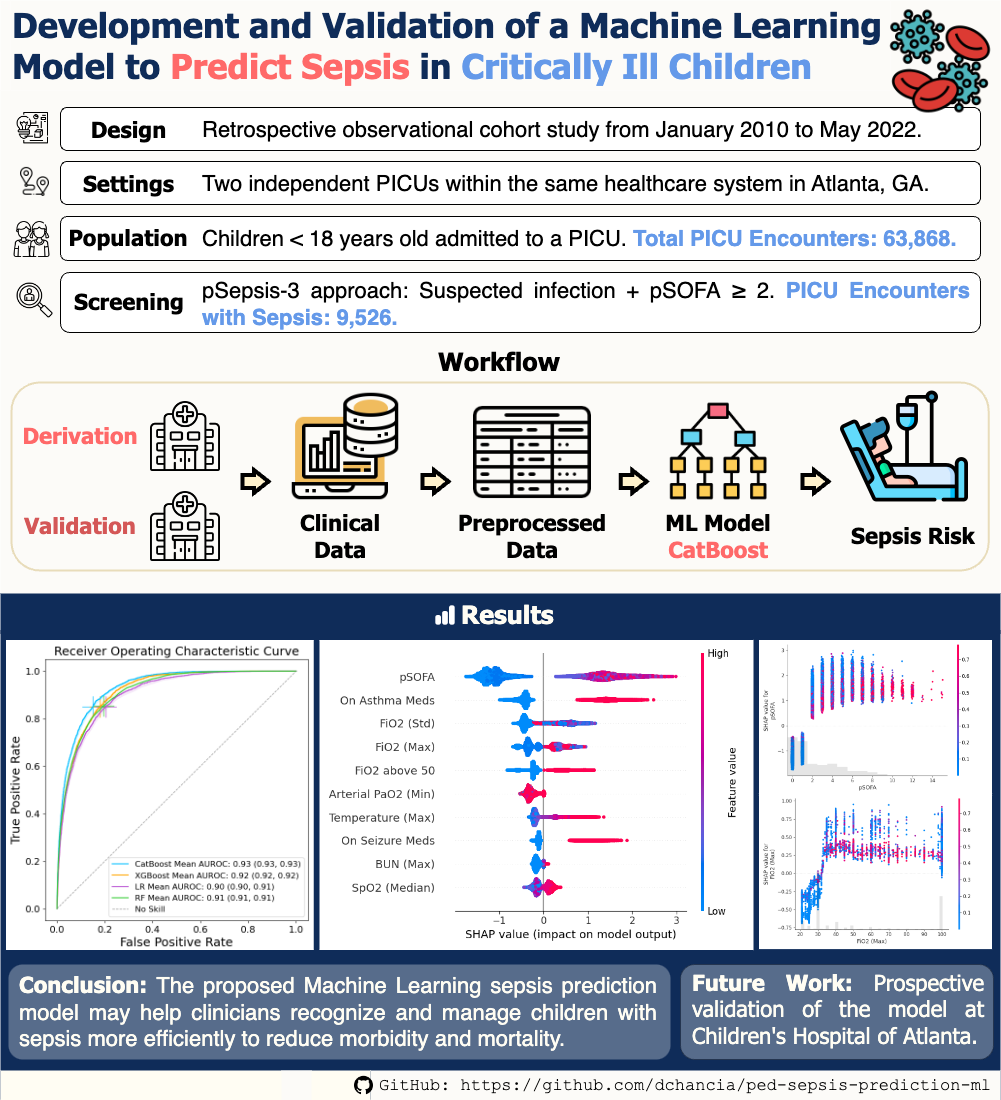
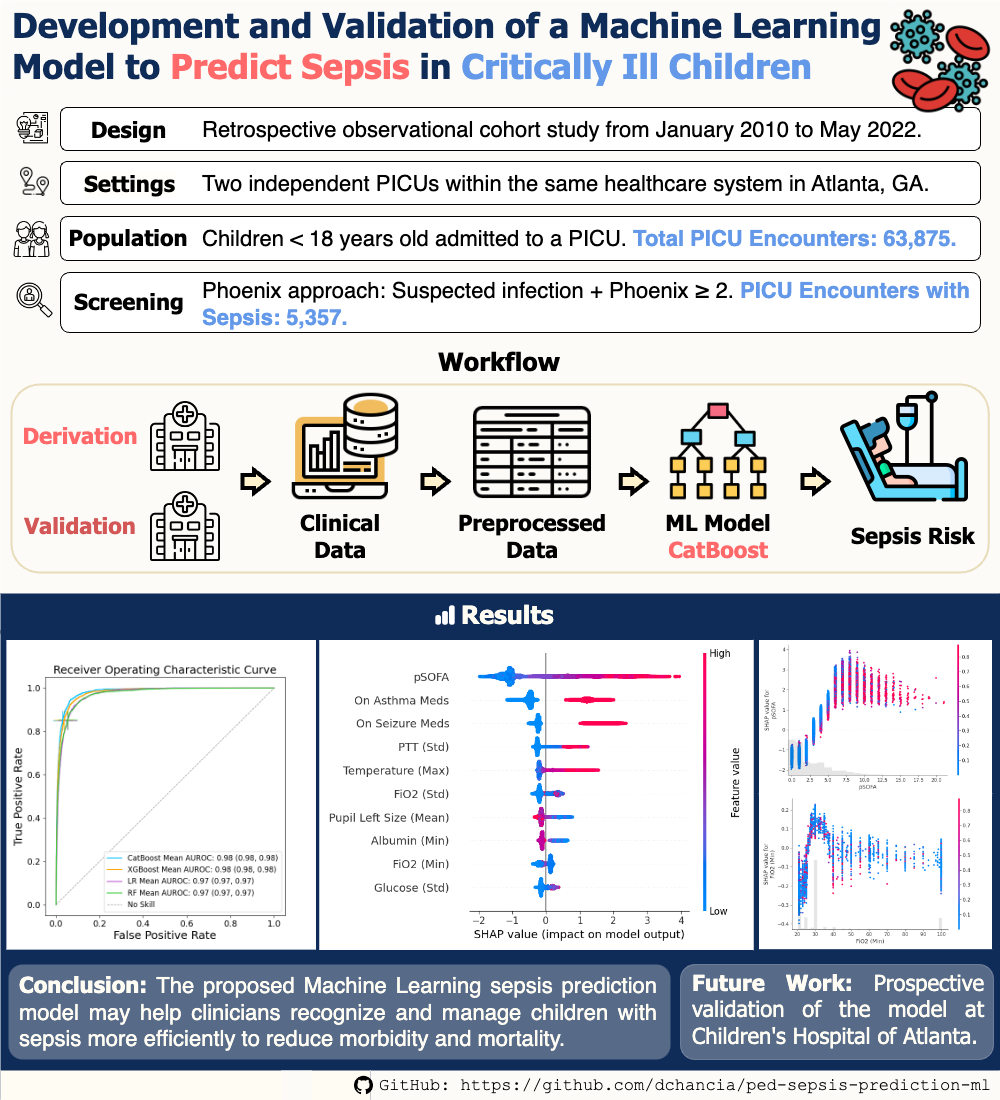
Update README

diff --git a/README.md b/README.md
@@ -8,13 +8,11 @@ This repository provides code and models for a sepsis prediction model for a ret
 
 ## Sepsis Cohorts
 
-To identify the required sepsis cohort, we followed 3 different screening approaches: **pSepsis-3**, SIRS + OD, and INF + SIRS + OD. The same inclusion criteria applied to all of them: children younger than 18 years old admitted at least once to the PICU during their hospitalization.
+To identify the required sepsis cohort, we followed 3 different screening approaches: **Phoenix**, pSepsis-3, and SIRS + OD. The same inclusion criteria applied to all of them: children younger than 18 years old admitted at least once to the PICU during their hospitalization.
 
-- pSepsis-3: Patients with suspected infection and pSOFA score $\ge$ 2 from 48 hours before to 24 hours after the infection time. Selected for final model.
-- SIRS + OD: Patients with systemic inflammatory response syndrome and acute organ dysfrunction within a period of 24 hours.
-- INF + SIRS + OD: Patients with suspected infection and SIRS + OD from 48 hours before to 24 hours after the infection time.
-
-![Cohorts Flow Diagram](./files/flow_diagram.png)
+- Phoenix: Patients with suspected infection and Phoenix score $\ge$ 2. Selected for final model.
+- pSepsis-3: Patients with suspected infection and pSOFA score $\ge$ 2. 
+- SIRS + OD: Patients with systemic inflammatory response syndrome and acute organ dysfrunction.
 
 The scripts for the screening approaches are in the folder `/screening_methods` using the data generated with the scripts in the folder `/data_screening`.
 
@@ -25,7 +23,7 @@ The scripts for the screening approaches are in the folder `/screening_methods` 
 
 ## Sepsis Prediction Model
 
-We trained CatBoost, XGBoost, Random Forest, and Logistic Regression models for each of the 3 cohorts. The selected model, with the best performance, is CatBoost for the pSepsis-3 cohort. It outputs the risk of sepsis within the first seven days of hospital admission for PICU patients. Download the trained model: [`Sepsis Prediction model`](./models/sepsis_catboost.cbm).
+We trained CatBoost, XGBoost, Random Forest, and Logistic Regression models for each of the 3 cohorts. The selected model, with the best performance, is CatBoost for the Phoenix cohort. It outputs the risk of sepsis within the first seven days of hospital admission for PICU patients. 
 
 ### Features
 
@@ -33,7 +31,7 @@ We trained CatBoost, XGBoost, Random Forest, and Logistic Regression models for 
 
 | Features |         |
 |----------|---------|
-| Vital signs     | Diastolic blood pressure<br>Systolic blood pressure<br>Mean arterial blood pressure<br>HeartRate<br>Respiratory rate <br>Oxygen saturation (SpO2)<br>Temperature |
+| Vital signs     | Diastolic blood pressure<br>Systolic blood pressure<br>Mean arterial blood pressure<br>Heart rate<br>Respiratory rate <br>Oxygen saturation (SpO2)<br>Temperature |
 | Laboratory Tests| Albumin<br>Base excess<br>Base deficit<br>Arterial PaCO2<br>Arterial PaO2<br>Bicarbonate<br>Bilirubin<br>Blood urea nitrogen (BUN)<br>Calcium<br>Ionized calcium<br>Chloride<br>Carbon dioxide (CO2)<br>Creatinine<br>Glucose<br>Hemoglobin<br>Lactic acid<br>pH<br>Platelets<br>Potassium<br>Partial thromboplastin time (PTT)<br>Sodium<br>White blood cell (WBC) count |
 | Demographics                   | Age group                                     |
 | Scoring Systems                | pSOFA                                         |
@@ -43,10 +41,10 @@ We trained CatBoost, XGBoost, Random Forest, and Logistic Regression models for 
 
 ### Preprocessing
 
-The `get_features.ipynb` notebook in the `/data_models` folder shows the adopted preprocessing pipeline. It can be summarized in the following steps:
+The `preprocess_m1.ipynb` notebook in the `/data_models` folder shows the adopted preprocessing pipeline. It can be summarized in the following steps:
 
 1. Collect data obtained within the first 7 days of hospital stay.
-2. Resample data into two hour bins, using the median if there are multiple values recorded.
+2. Resample data into one hour bins, using the median if there are multiple values recorded.
 3. Discard outliers.
 4. Impute missing values using forward fill for a patient-wise imputation, followed by population median imputation for the remaining missing values.
 5. Select the 24-hour windows.
@@ -70,6 +68,6 @@ The `/train_test_models/utils/preprocess_utils.py` script contains multiple func
 We generated shap beeswarm and scatter plots for the most important features using the the SHAP library. `/train_test_models/shap_catboost.py`.
 
 <p float="left">
-  <img src="./files/shap_external.png" width="42%" />
-  <img src="./files/shap_external_scatter.png" width="53%" /> 
+  <img src="./files/shap_val.png" width="42%" />
+  <img src="./files/shap_val_scatter.png" width="53%" /> 
 </p>
